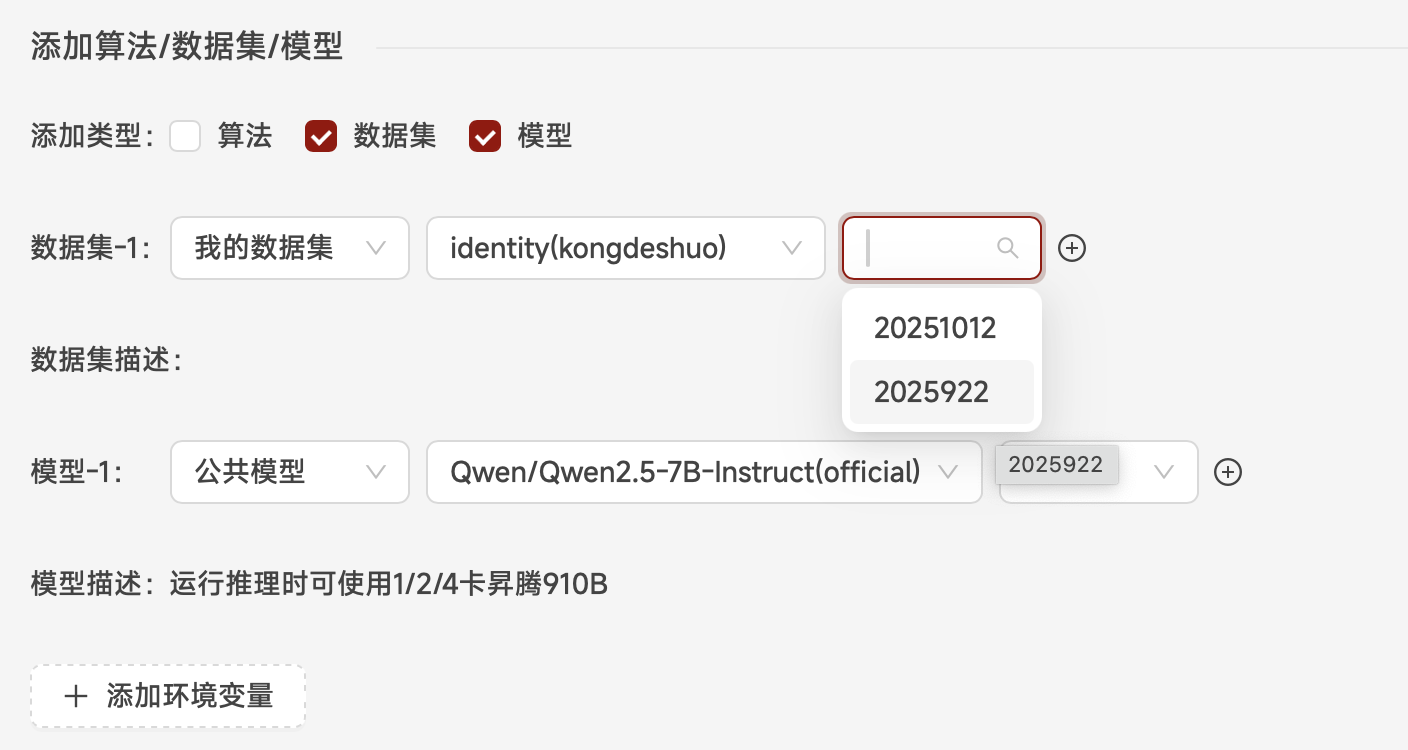
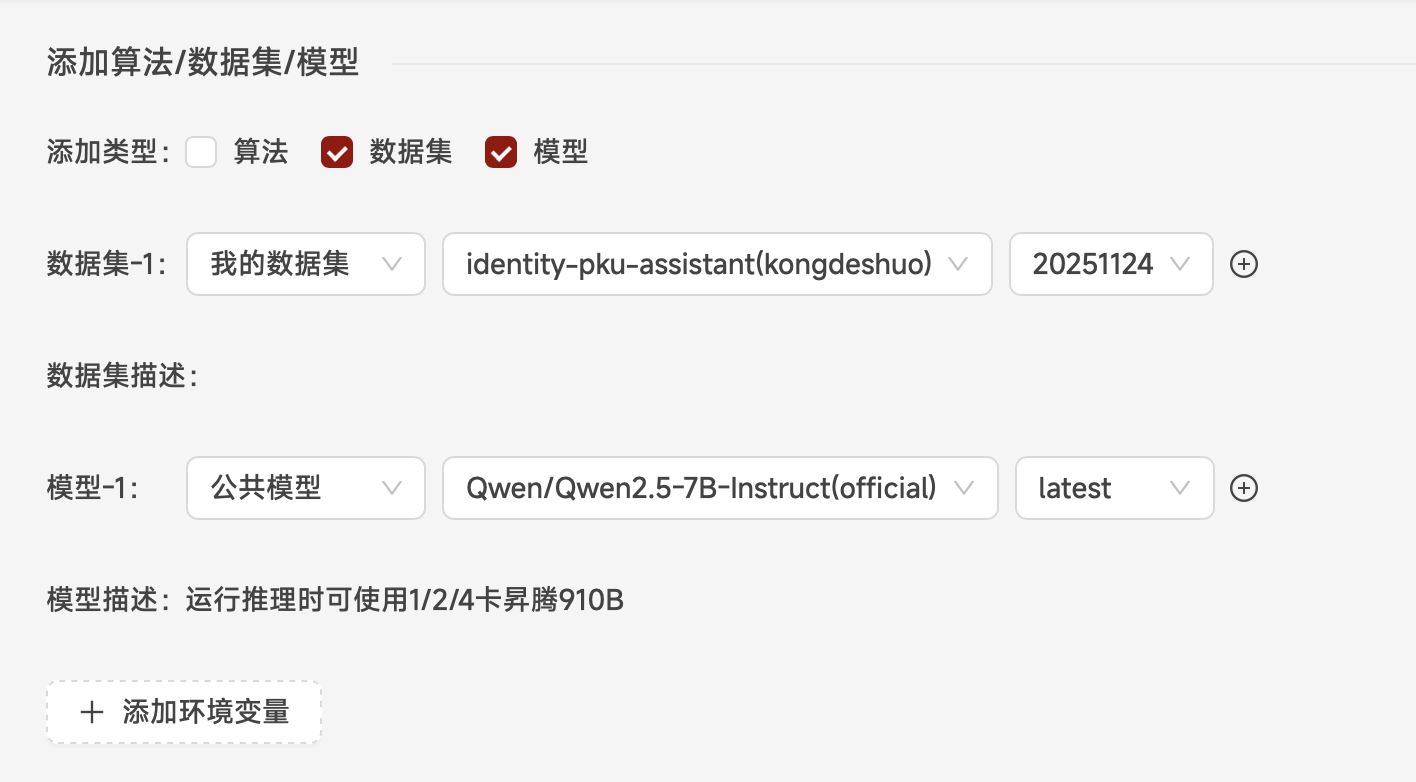
更新tutorial11中数据集相关截图

diff --git a/Tutorial11-llama-factory交互式应用/tutorial11-llama-factory.md b/Tutorial11-llama-factory交互式应用/tutorial11-llama-factory.md
@@ -36,7 +36,7 @@
 * 勾选添加类型 - 模型，下拉菜单中，选取 公共模型；模型下拉菜单中，选取 Qwen2.5-7B-Instruct(official) 模型，版本下拉菜单中，选取 latest(如果您使用的集群没有该模型，请参考[Tutorial4](../Tutorial4_下载模型/tutorial4_下载模型.md)下载模型，其中tutorial4中的1.1.6步骤使用`modelscope download --model Qwen/Qwen2.5-7B-Instruct --local_dir ./Qwen/Qwen/Qwen2.5-7B-Instruct`)
 ![alt text](assets/image-73.png)
 
-* 勾选添加类型 - 数据集，下拉菜单中，选取 我的数据集；数据集下拉菜单中，选取刚创建的 identity（这里有你的用户名） 数据集，版本下拉菜单中，选取刚在数据集中设置的版本号；有多个版本的话，选取恰当的版本
+* 勾选添加类型 - 数据集，下拉菜单中，选取 我的数据集；数据集下拉菜单中，选取刚创建的 identity-pku-assistant（这里有你的用户名） 数据集，版本下拉菜单中，选取刚在数据集中设置的版本号；有多个版本的话，选取恰当的版本
 ![alt text](assets/image-74.png)
 
 1.3.3 本教程采用单节点单卡，资源部分不需要修改。也可以根据实际需要，如单节点多卡的话，在 单节点加速卡卡数 中修改为2/4/8（单节点上限是8卡，卡数越多，对大模型训练的时间会相应缩短）然后点击 提交 按钮
@@ -85,11 +85,11 @@
 
 2.2 点击 Train 训练，配置微调所用的数据集
 
-2.2.1 查看数据路径，在数据集下拉菜单中，选择刚创建的数据集 identity
+2.2.1 查看数据路径，在数据集下拉菜单中，选择刚创建的数据集 identity-pku-assistant
 ![alt text](assets/image-86.png)
 
 2.2.2 选择好数据集后，可以点击 预览数据集
-![alt text](assets/image-87.png)
+
 
 对数据集预览时，可以用 上一页 或 下一页 进行翻页，浏览完后，可以点击 关闭
 ![alt text](assets/image-88.png)
@@ -119,7 +119,7 @@
 
 2.4 在 Train 训练中，使用数据集对模型进行微调
 
-2.4.1 点击 开始 按钮，这里使用的数据集是2.2.1中设置的 identiy 数据集，对模型进行微调。
+2.4.1 点击 开始 按钮，这里使用的数据集是2.2.1中设置的 identity-pku-assistant 数据集，对模型进行微调。
 输出目录、配置路径都不要修改。在还没有开始进行微调时，损失曲线为空白。
 ![alt text](assets/image-106.png)
 
